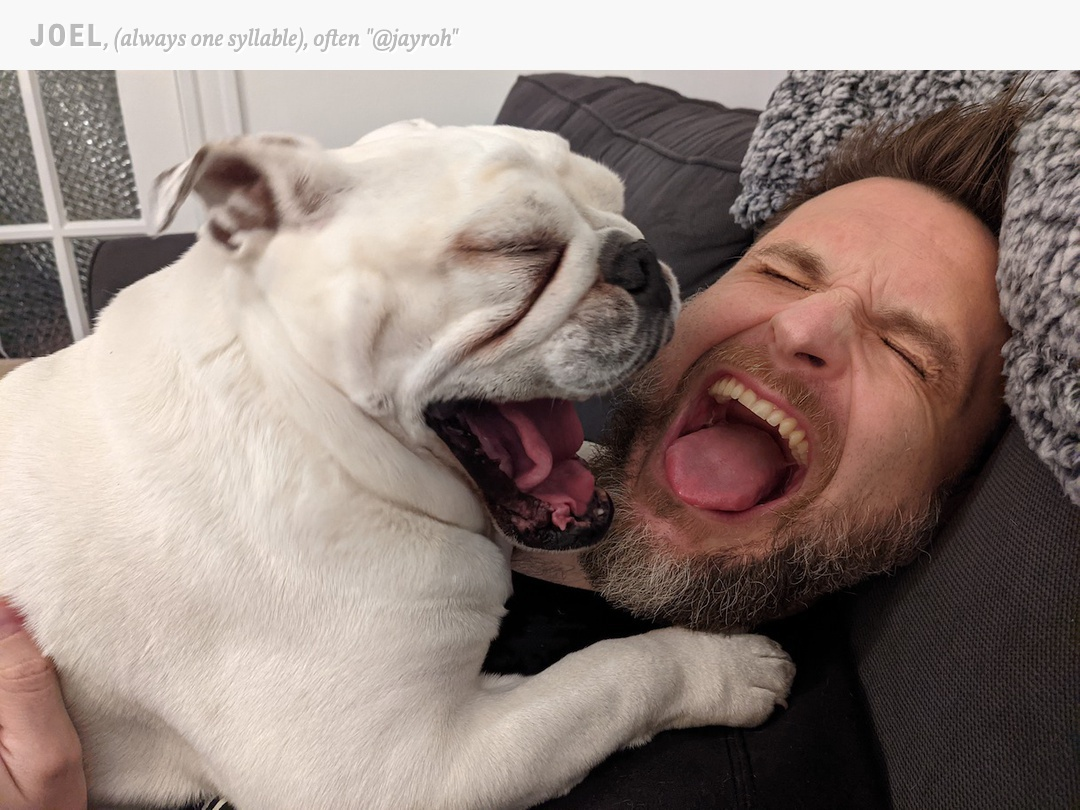
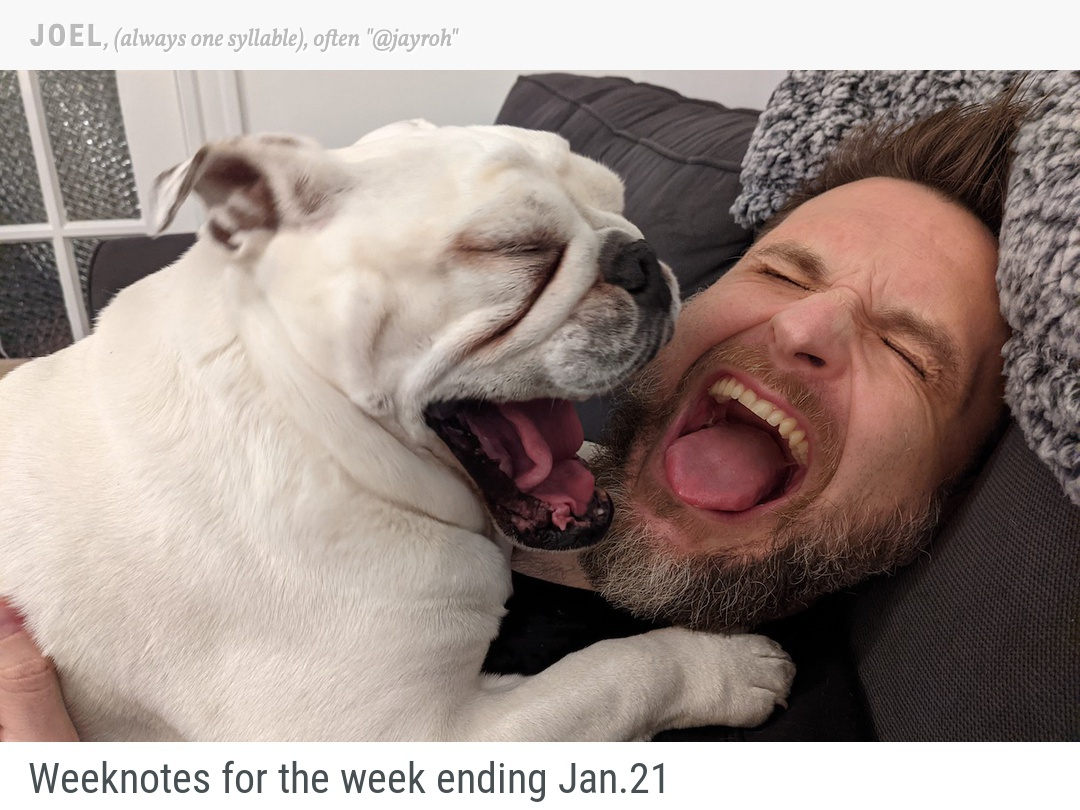
Working!

Changed region(s): [[0.0, 0.8951, 1.0, 1.0]]

diff --git a/_plugins/social_images_generator.rb b/_plugins/social_images_generator.rb
@@ -1,34 +1,82 @@
 # frozen_string_literal: true
 
 require 'mini_magick'
-require 'pry'
 
 module SocialMedia
+  # Generator to convert image to a social card photo
   class Images < Jekyll::Generator
+    attr_accessor :post, :photo
+
     def generate(site)
-      site.posts.docs.each do |post|
-        next unless post.data['photo']
-
-        FileUtils.mkdir_p(
-          File.dirname(
-            File.absolute_path(
-              post.data['photo'].gsub(/images/, 'images/social')
-            )
-          )
-        )
-
-        title = MiniMagick::Image.new('./_plugins/social_images_generator/title_bar.png')
-        photo = MiniMagick::Image.new(post.data['photo'])
-        photo.resize '1080x570^'
-
-        result = photo.composite(title) do |c|
-          c.compose 'Over' # OverCompositeOp
-          c.geometry '+0+0' # copy title onto photo from (0, 0)
-        end
-
-        result.format 'jpg'
-        result.write post.data['photo'].gsub(/images/, 'images/social')
+      photo_posts_in(site).each do |post|
+        @post = post
+        create_directory
+        resize_photo
+        add_title_at_top
+        draw_rectangle_at_bottom
+        add_title_to_bottom
+        write_file
       end
+    end
+
+    private
+
+    def create_directory
+      FileUtils.mkdir_p(
+        File.dirname(
+          File.absolute_path(@post.data['photo'].gsub(/images/, 'images/social'))
+        )
+      )
+    end
+
+    def resize_photo
+      @photo = MiniMagick::Image.new(@post.data['photo'])
+      @photo.resize '1080x570^'
+    end
+
+    def photo_posts_in(site)
+      site.posts.docs.select { |post| post.data['photo'] }
+    end
+
+    def write_file
+      photo.format 'jpg'
+      photo.write post.data['photo'].gsub(/images/, 'images/social')
+    end
+
+    def add_title_to_bottom
+      @photo = photo.combine_options do |c|
+        c.gravity 'Southwest'
+        c.pointsize '42'
+        c.font './_plugins/social_images_generator/RobotoCondensed-Regular.ttf'
+        c.draw "Text 28,6'#{post.data['title']}'"
+        c.fill('#484F53')
+      end
+    end
+
+    def add_title_at_top
+      @photo = photo.composite(title_bar) do |c|
+        c.compose 'Over'
+        c.geometry '+0+0'
+      end
+    end
+
+    def draw_rectangle_at_bottom
+      @photo = @photo.combine_options do |c|
+        c.draw "rectangle 0,#{height - 68} #{width},#{height}"
+        c.fill '#FFFFFF'
+      end
+    end
+
+    def title_bar
+      @title_bar ||= MiniMagick::Image.new('./_plugins/social_images_generator/title_bar.png')
+    end
+
+    def width
+      1080
+    end
+
+    def height
+      photo.dimensions[1]
     end
   end
 end
